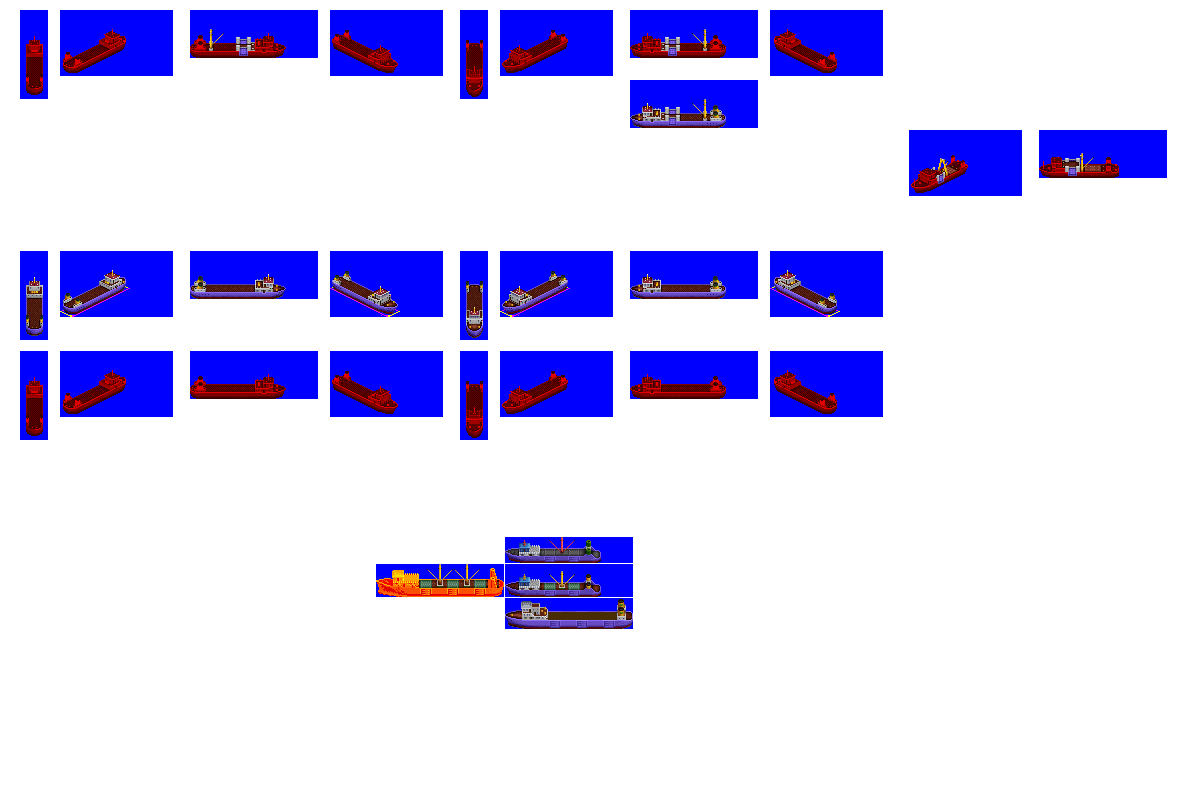
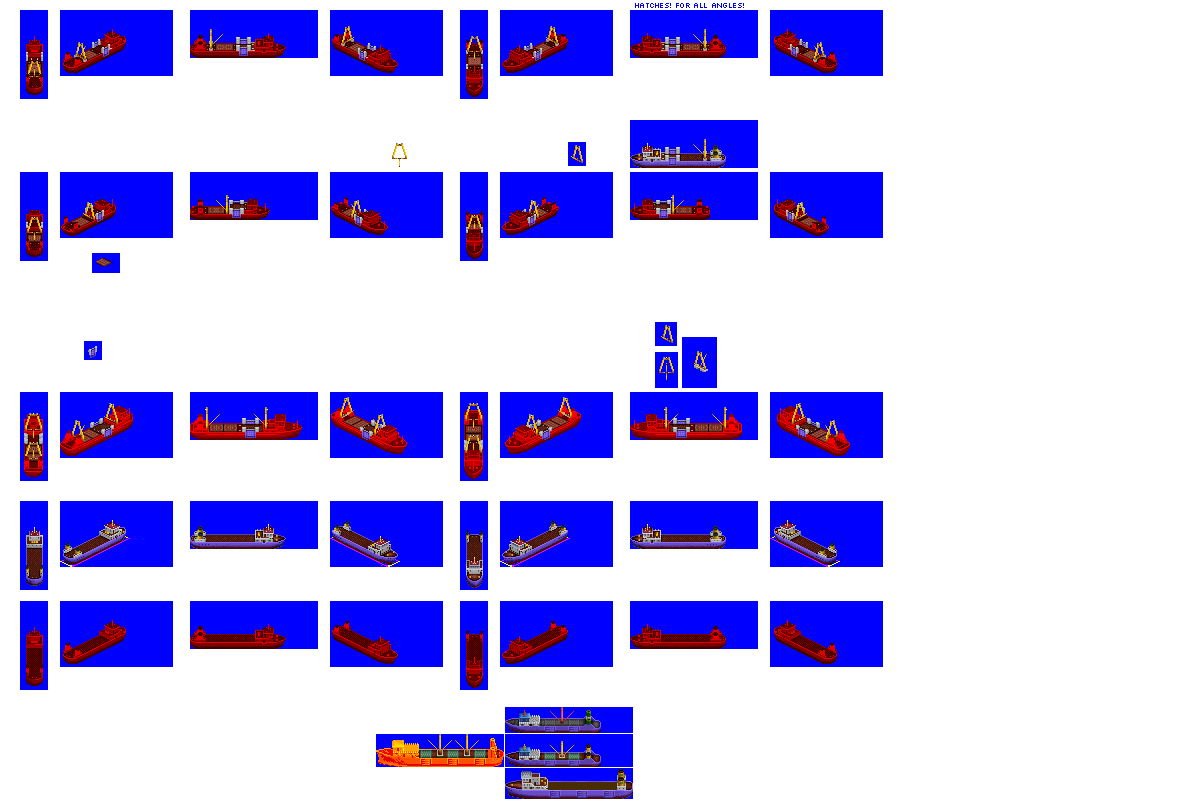
Change: sprites complete for Rampside cargo liner

diff --git a/src/vehicles/cargo_liners.py b/src/vehicles/cargo_liners.py
@@ -49,7 +49,7 @@ def main():
         subtype="D",
         hull="ShipHouseForward",
         effect_type="EFFECT_SPRITE_DIESEL",
-        sprites_complete=False,
+        sprites_complete=True,
     )
 
     ship = CargoLiner(
